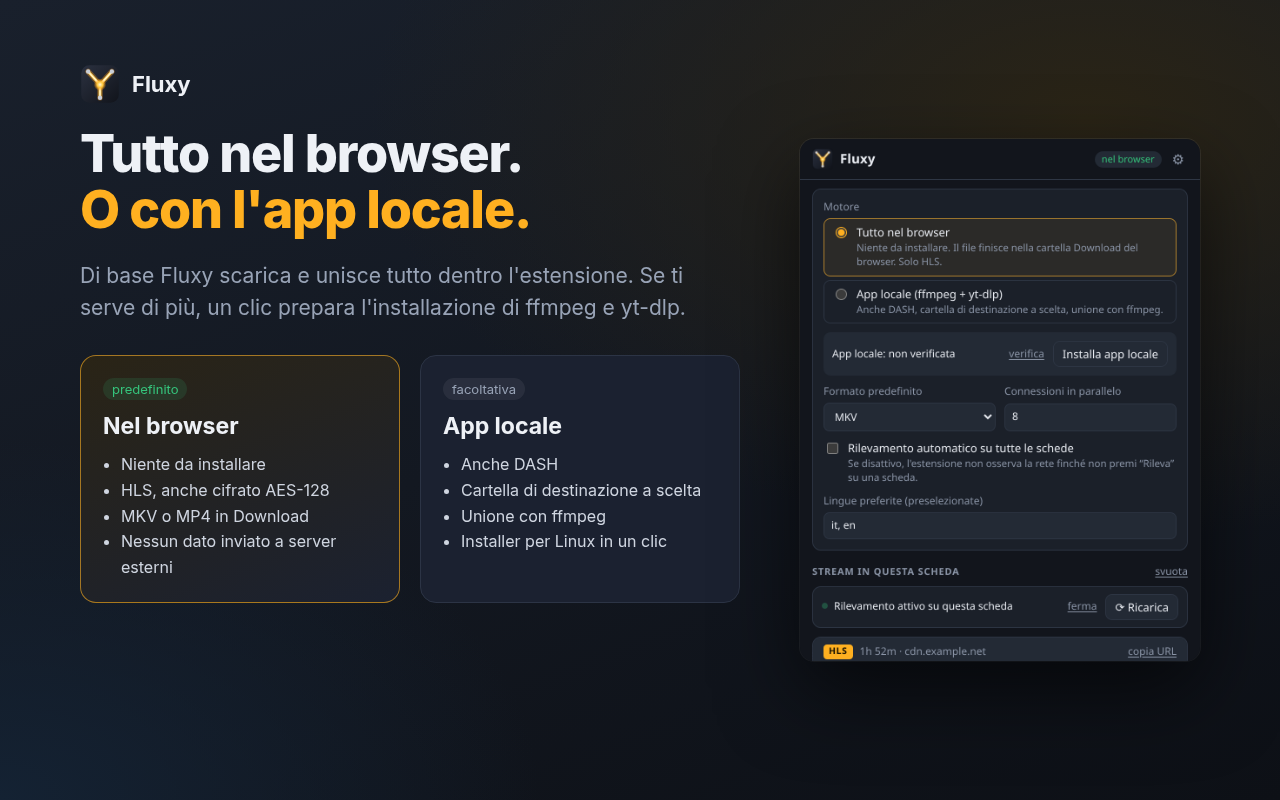
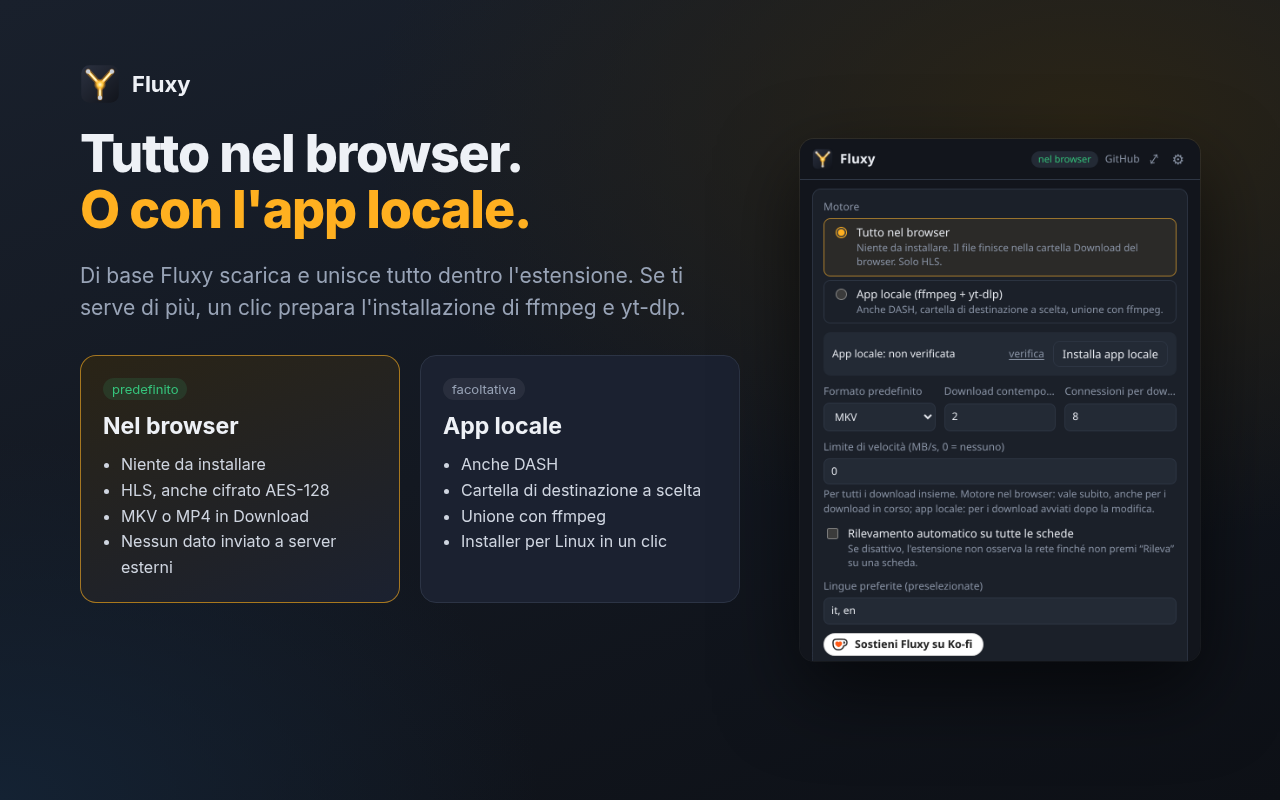
Scheda store aggiornata, immagini rifatte, header eliminati dai download completati (v0.11.1)
- Descrizioni IT/EN con le funzioni da download manager (tracce in parallelo, salto di una traccia,
  pausa/ripresa/riprova, coda, limite di velocità, .srt separati) e la riga sulla versione GitHub:
  senza nominare YouTube per Chrome Web Store/Edge, esplicita per AMO.
- Screenshot catturati di nuovo dall'estensione; il quinto ora mostra la pagina dei download.
- Privacy: quando un download è completato la cronologia non conserva più header e cookie della pagina;
  informativa aggiornata (cronologia persistente, URL pubblico).

Claude-Session: https://claude.ai/code/session_01Dts39jVRYCLJxom2Pzw7QR

diff --git a/docs/store/src/strings.js b/docs/store/src/strings.js
@@ -57,16 +57,16 @@ const STRINGS = {
   s4_h1b: ['Local app', 'App locale'],
   s4_l2: ['<li>DASH too</li><li>Any destination folder</li><li>Merging with ffmpeg</li><li>One-click Linux installer</li>',
     '<li>Anche DASH</li><li>Cartella di destinazione a scelta</li><li>Unione con ffmpeg</li><li>Installer per Linux in un clic</li>'],
-  // screenshot 5 — speed
-  s5_h1: ['Fast, <em>no quality loss</em>.', 'Veloce, <em>senza perdere qualità</em>.'],
-  s5_f1: ['<b>Parallel segments</b>, with automatic retries if the connection drops.',
-    '<b>Segmenti in parallelo</b>, con nuovi tentativi automatici se la connessione cade.'],
-  s5_f2: ['<b>Copy, not re-encode</b>: merging a film takes seconds and the file stays identical to the original.',
-    '<b>Copia, non ricodifica</b>: l\'unione di un film richiede secondi e il file resta identico all\'originale.'],
-  s5_f3: ['<b>Languages and default tracks already set</b>: the file opens ready in any player.',
-    '<b>Lingue e tracce predefinite già impostate</b>: il file si apre pronto in qualsiasi player.'],
-  s5_f4: ['<b>No tracking</b>: no account, no analytics, no Fluxy servers.',
-    '<b>Nessun tracciamento</b>: niente account, niente statistiche, nessun server di Fluxy.'],
+  // screenshot 5 — download manager (the Fluxy page)
+  s5_h1: ['A real <em>download manager</em>.', 'Un vero <em>download manager</em>.'],
+  s5_f1: ['<b>Tracks in parallel</b>: video, every audio language and the subtitles download together, on as many connections as you choose.',
+    '<b>Tracce in parallelo</b>: video, ogni lingua audio e i sottotitoli si scaricano insieme, con le connessioni che scegli tu.'],
+  s5_f2: ['<b>Skip a single track</b> while it downloads: it stops and stays out of the file, the rest carries on.',
+    '<b>Salta una singola traccia</b> mentre scarica: si ferma e resta fuori dal file, il resto continua.'],
+  s5_f3: ['<b>Pause, resume, retry</b>: nothing already downloaded is lost, and an expired link is refreshed.',
+    '<b>Pausa, ripresa e riprova</b>: quello che è già scaricato non si perde e il link scaduto viene rinnovato.'],
+  s5_f4: ['<b>Queue and speed limit</b>, rename while downloading, history kept in the Fluxy page.',
+    '<b>Coda e limite di velocità</b>, rinomina durante il download, cronologia nella pagina di Fluxy.'],
   // promo tiles
   tagline: ['Three streams, <b>one file</b>.', 'Tre flussi, <b>un file</b>.'],
   m_lead: ['Save HLS and DASH streams as one <b style="color:var(--text)">MKV or MP4</b>, with the languages and subtitles you pick. <em style="font-style:normal;color:var(--accent)">No re-encoding.</em>',

diff --git a/docs/store/src/screenshot-5-downloads.html b/docs/store/src/screenshot-5-downloads.html
@@ -1,0 +1,23 @@
+<!doctype html><html><head><meta charset="utf-8"><link rel="stylesheet" href="style.css">
+<style>
+  .wrap { display: grid; grid-template-columns: 1fr 660px; gap: 48px; padding: 56px 56px 56px 72px; height: 100%; }
+  .copy { display: flex; flex-direction: column; gap: 22px; padding-top: 12px; }
+  h1 { font-size: 46px; }
+  .facts { display: grid; gap: 15px; margin-top: 4px; }
+  .fact { display: flex; gap: 14px; align-items: flex-start; font-size: 17.5px; line-height: 1.45; color: #cfd5e0; }
+  .fact b { color: var(--text); } .fact i { flex: none; width: 32px; height: 32px; border-radius: 10px; background: #ffb02022; color: var(--accent); display: grid; place-items: center; font-style: normal; font-weight: 800; }
+  .popup { align-self: center; width: 660px; }
+</style></head><body>
+<div class="wrap">
+  <div class="copy">
+    <div class="brand"><img src="assets/icon.svg">Fluxy</div>
+    <h1 data-t="s5_h1"></h1>
+    <div class="facts">
+      <div class="fact"><i>⇉</i><div data-t="s5_f1"></div></div>
+      <div class="fact"><i>✕</i><div data-t="s5_f2"></div></div>
+      <div class="fact"><i>↻</i><div data-t="s5_f3"></div></div>
+      <div class="fact"><i>⏱</i><div data-t="s5_f4"></div></div>
+    </div>
+  </div>
+  <div class="popup shadow"><img data-img="assets/app-downloads-{lang}.png"></div>
+</div><script src="strings.js"></script></body></html>

diff --git a/extension/background.js b/extension/background.js
@@ -433,6 +433,12 @@ function mutateJobs(fn) {
   jobsLock = jobsLock.then(async () => {
     const jobs = await getJobs();
     fn(jobs);
+    // a finished download can't be retried: don't keep the page's cookies/headers in the history
+    for (const j of Object.values(jobs)) {
+      if (j.state !== 'done') continue;
+      delete j.headers;
+      if (j.spec?.headers) delete j.spec.headers;
+    }
     // keep the history bounded: drop the oldest finished entries
     const finished = Object.values(jobs).filter((j) => ['done', 'error', 'cancelled'].includes(j.state))
       .sort((a, b) => a.startedAt - b.startedAt);

diff --git a/host/fluxy_host.py b/host/fluxy_host.py
@@ -29,7 +29,7 @@ import traceback
 import urllib.parse
 import urllib.request
 
-VERSION = "0.11.0"
+VERSION = "0.11.1"
 CACHE_DIR = os.path.join(os.path.expanduser("~/.cache"), "fluxy")
 LOG_FILE = os.path.join(CACHE_DIR, "host.log")
 UA_FALLBACK = ("Mozilla/5.0 (X11; Linux x86_64) AppleWebKit/537.36 "

diff --git a/docs/store/listing.md b/docs/store/listing.md
@@ -11,12 +11,13 @@ Pacchetti da caricare (`./build.py`, oppure dalla release GitHub; il link Ko-fi 
 | Chrome Web Store, Edge Add-ons | `dist/fluxy-<ver>-chrome-store.zip` (senza `key`: l'ID lo assegna lo store; senza YouTube) |
 | AMO | `dist/fluxy-<ver>-firefox-store.xpi` (senza YouTube) |
 
-**Non menzionare il supporto YouTube della versione GitHub** in schede, screenshot o note: per il Chrome Web Store
-indicare dove ottenere una funzione vietata equivale a offrirla (rischio di rifiuto o rimozione). Nella scheda c'è
-solo il link neutro al progetto; la differenza tra le versioni è spiegata nel README.
-
-Le versioni store escludono YouTube (obbligatorio per il Chrome Web Store, prudente per AMO); la versione pubblicata
-su GitHub lo supporta tramite l'app locale.
+**YouTube e altre piattaforme**: le versioni store escludono YouTube (obbligatorio per il Chrome Web Store, prudente
+per AMO); la versione su GitHub lo supporta tramite l'app locale. Nelle schede la versione GitHub si cita così:
+- **Chrome Web Store / Edge**: senza nominare YouTube, solo "più piattaforme video con l'app locale nella versione su
+  GitHub". Le policy CWS vietano di scaricare da YouTube e i revisori trattano come violazione anche il rimando
+  esplicito a dove farlo: nominarlo (anche come "YT") rischia rifiuto o rimozione. Niente YouTube neanche in
+  screenshot e note per i revisori.
+- **AMO**: le policy Mozilla non vietano i downloader per YouTube, quindi la riga può nominarlo.
 
 **Lingue**: l'estensione è in inglese (predefinita) e italiano; nome e descrizione del manifest vengono presi da
 `_locales/`. In entrambi gli store scegliere **inglese come lingua predefinita** e aggiungere l'italiano, ognuno con
@@ -51,9 +52,18 @@ cosa tenere e li ricompone in un unico file pronto per qualsiasi player.
 • Trova anche i video della pagina che non hai ancora avviato: file MP4/WebM, link, player incorporati.
 • Scegli la qualità del video, fino alla più alta che il sito offre.
 • Scegli le tracce audio per lingua: anche più di una nello stesso file.
-• Scegli i sottotitoli per lingua, compresi quelli "forced".
+• Scegli i sottotitoli per lingua, compresi quelli "forced", oppure scaricali come file .srt separati.
 • Ottieni un MKV (consigliato) o un MP4, con lingue e tracce predefinite già impostate.
 • Nessuna ricodifica: i dati vengono copiati così come sono, senza perdita di qualità e in pochi secondi.
+
+Un vero download manager
+• Video, audio e sottotitoli si scaricano in parallelo, con il numero di connessioni che scegli.
+• Hai cambiato idea su una lingua? Salta la singola traccia mentre scarica: resta fuori dal file, il resto continua.
+• Pausa e ripresa senza perdere quanto già scaricato; "riprova" rinnova il link scaduto e riparte da dove si era
+  fermato.
+• Coda con download contemporanei a scelta, limite di velocità, rinomina durante il download.
+• Pagina di Fluxy con tutti i download, la cronologia e le impostazioni; avanzamento di ogni traccia e MB
+  scaricati.
 
 Tutto nel browser
 Download in parallelo, decifratura dei flussi AES-128 standard e unione delle tracce avvengono dentro
@@ -70,16 +80,21 @@ ricaricata per intercettare gli stream del player. Se preferisci, puoi attivare 
 
 Cosa Fluxy non fa
 • Non scarica contenuti protetti da DRM (Widevine, PlayReady, FairPlay): li riconosce e lo segnala.
-• Non funziona su YouTube.
 • Non ricodifica e non modifica i contenuti.
+• Non raccoglie dati: niente account, statistiche o server di Fluxy.
 
 Usa Fluxy solo per contenuti che hai il diritto di salvare.
 
 Open source (GPL-3.0): codice, documentazione e release su https://github.com/lorisilbagnino/fluxy
+{GH_IT}
 Realizzato con Mediabunny; l'app locale facoltativa usa FFmpeg e yt-dlp.
 
 Fluxy è gratuito. Se ti è utile, puoi offrirmi un caffè: https://ko-fi.com/lorisilbagnino
 ```
+
+Riga sulla versione GitHub (al posto di `{GH_IT}`):
+- **Chrome Web Store / Edge**: `Più piattaforme video con l'app locale: vedi la versione su GitHub.`
+- **AMO**: `Altre piattaforme video, YouTube compreso, con l'app locale: vedi la versione su GitHub.`
 
 ---
 
@@ -102,9 +117,18 @@ puts them back together into a single file that plays anywhere.
 • Also finds the page's videos you haven't started yet: MP4/WebM files, links, embedded players.
 • Pick the video quality, up to the highest the site offers.
 • Pick audio tracks by language, several in the same file if you like.
-• Pick subtitles by language, including "forced" ones.
+• Pick subtitles by language, including "forced" ones, or save them as separate .srt files.
 • Get an MKV (recommended) or an MP4, with languages and default tracks already set.
 • No re-encoding: data is copied as is, with no quality loss and in seconds.
+
+A real download manager
+• Video, audio and subtitles download in parallel, over as many connections as you choose.
+• Changed your mind about a language? Skip that single track while it downloads: it stays out of the file and the
+  rest carries on.
+• Pause and resume without losing what's already downloaded; "retry" refreshes an expired link and picks up where
+  it stopped.
+• Queue with as many concurrent downloads as you like, speed limit, rename while downloading.
+• A Fluxy page with every download, the history and the settings; progress of each track and MB downloaded.
 
 All in the browser
 Parallel downloads, decryption of standard AES-128 streams and track merging all happen inside the extension.
@@ -121,16 +145,21 @@ the player's streams can be picked up. Automatic detection can be turned on in t
 
 What Fluxy doesn't do
 • It doesn't download DRM-protected content (Widevine, PlayReady, FairPlay): it recognises it and says so.
-• It doesn't work on YouTube.
 • It doesn't re-encode or alter content.
+• It doesn't collect data: no account, no analytics, no Fluxy servers.
 
 Only use Fluxy for content you have the right to save.
 
 Open source (GPL-3.0): code, documentation and releases at https://github.com/lorisilbagnino/fluxy
+{GH_EN}
 Built with Mediabunny; the optional local app uses FFmpeg and yt-dlp.
 
 Fluxy is free. If you find it useful, you can buy me a coffee: https://ko-fi.com/lorisilbagnino
 ```
+
+Line about the GitHub version (in place of `{GH_EN}`):
+- **Chrome Web Store / Edge**: `More video platforms with the local app: see the version on GitHub.`
+- **AMO**: `More video platforms, YouTube included, with the local app: see the version on GitHub.`
 
 ---
 
@@ -165,10 +194,10 @@ Fluxy is free. If you find it useful, you can buy me a coffee: https://ko-fi.com
   server del video) ma non vengono mai trasmessi allo sviluppatore né a terzi.
 - Certificazioni: non venduti a terzi · non usati per scopi estranei alla funzione · non usati per affidabilità
   creditizia.
-- URL informativa privacy: pubblicare `docs/PRIVACY.md` (vedi sotto) e incollarne l'indirizzo.
+- URL informativa privacy: https://github.com/lorisilbagnino/fluxy/blob/main/docs/PRIVACY.md
 
-**Requisiti di policy rispettati**: niente download da YouTube (bloccato nel codice), niente aggiramento di DRM,
-nessuna raccolta dati, permessi limitati alla funzione.
+**Requisiti di policy rispettati**: niente download da YouTube (bloccato nel codice) e nessun rimando esplicito a
+YouTube nella scheda, niente aggiramento di DRM, nessuna raccolta dati, permessi limitati alla funzione.
 
 ---
 
@@ -178,7 +207,7 @@ nessuna raccolta dati, permessi limitati alla funzione.
 **Contributions URL**: `https://ko-fi.com/lorisilbagnino` (Ko-fi è tra i servizi accettati)
 **Licenza**: GNU General Public License v3.0 (GPL-3.0-or-later, con termini aggiuntivi in `ADDITIONAL-TERMS.md`:
 su AMO scegliere "GNU General Public License v3.0"). Codice sorgente: https://github.com/lorisilbagnino/fluxy
-**Informativa privacy**: il testo di `docs/PRIVACY.md`.
+**Informativa privacy**: il testo di `docs/PRIVACY.md` (AMO lo vuole incollato, non come link).
 
 **Note per i revisori** (Notes to reviewer):
 
@@ -202,8 +231,6 @@ in a player page), open the popup, press "Detect", choose tracks, press "Downloa
 
 ## Immagini
 
-| File | Formato | Uso |
-|---|---|---|
 Ogni immagine esiste in `images/en/` e `images/it/`:
 
 | File | Formato | Uso |
@@ -212,21 +239,23 @@ Ogni immagine esiste in `images/en/` e `images/it/`:
 | `screenshot-2-three-streams.png` | 1280×800 | CWS/AMO: infografica "tre flussi, un file" |
 | `screenshot-3-how-it-works.png` | 1280×800 | CWS/AMO: come funziona in 3 passi |
 | `screenshot-4-engines.png` | 1280×800 | CWS/AMO: motore nel browser o app locale |
-| `screenshot-5-progress.png` | 1280×800 | CWS/AMO: download in corso e completato |
+| `screenshot-5-downloads.png` | 1280×800 | CWS/AMO: pagina dei download (tracce in parallelo, traccia saltata, pausa) |
 | `promo-small-440x280.png` | 440×280 | CWS: piccolo riquadro promozionale (obbligatorio) |
 | `promo-marquee-1400x560.png` | 1400×560 | CWS: riquadro grande (facoltativo) |
 | `social-preview-1280x640.png` | 1280×640 | GitHub: anteprima dei link (Settings → Social preview) |
 | `icons/icon128.png` (nell'estensione) | 128×128 | Icona dello store |
 
 I sorgenti HTML sono in `docs/store/src/` (testi in `src/strings.js`); si rigenerano con `node docs/store/render.mjs`.
+Le catture del popup e della pagina (`src/assets/popup-*.png`, `app-downloads-*.png`) vengono dall'estensione vera,
+aperta con dati dimostrativi.
 
 ---
 
 ## Prima di pubblicare
 
 - [ ] Account sviluppatore: Chrome Web Store (5 $ una tantum), AMO (gratis), Edge (gratis).
-- [ ] Informativa privacy raggiungibile da un URL pubblico (il repository è privato: GitHub Pages su repo privati
-      richiede un piano a pagamento; in alternativa un gist pubblico o una pagina sul proprio sito).
+- [x] Informativa privacy raggiungibile da un URL pubblico:
+      https://github.com/lorisilbagnino/fluxy/blob/main/docs/PRIVACY.md
 - [x] Licenza del progetto: GPL-3.0-or-later + termini aggiuntivi.
 - [x] Account Ko-fi: https://ko-fi.com/lorisilbagnino (link nel popup, nelle schede e nel pulsante Sponsor di GitHub).
 - [ ] Caricare `fluxy-<ver>-chrome-store.zip` / `fluxy-<ver>-firefox-store.xpi`, testi, immagini, giustificazioni.

diff --git a/docs/PRIVACY.md b/docs/PRIVACY.md
@@ -1,6 +1,6 @@
 # Fluxy – Informativa sulla privacy
 
-*Ultimo aggiornamento: 15 novembre 2026*
+*Ultimo aggiornamento: 16 novembre 2026*
 
 **In breve: Fluxy non raccoglie, non conserva e non invia a nessuno dati personali o sulla tua navigazione.**
 
@@ -16,10 +16,13 @@
   Authorization), perché il server del video li richiede per consegnare i segmenti.
 - **Download.** Per scaricare lo stream, Fluxy invia quegli stessi header **solo ai server da cui proviene il
   video**, come farebbe il player della pagina.
-- **Archiviazione locale.** L'elenco degli stream rilevati e dei download resta nella memoria di sessione del
-  browser e viene cancellato alla chiusura. Le impostazioni restano nella memoria locale dell'estensione. I segmenti
-  scaricati vengono scritti temporaneamente nello spazio privato dell'estensione (OPFS) e cancellati appena il file
-  finale è salvato nella cartella Download.
+- **Archiviazione locale.** L'elenco degli stream rilevati resta nella memoria di sessione del browser e viene
+  cancellato alla chiusura. La cronologia dei download (nome del file, titolo e indirizzo della pagina, tracce scelte,
+  avanzamento) e le impostazioni restano nella memoria locale dell'estensione, finché non le cancelli ("Cancella
+  cronologia" o "rimuovi"). Per i download in pausa, interrotti o falliti la cronologia conserva anche indirizzi e
+  header dello stream, così da poterli riprendere; quando un download è completato gli header (cookie compresi) vengono
+  eliminati. I segmenti scaricati vengono scritti temporaneamente nello spazio privato dell'estensione (OPFS):
+  vengono cancellati appena il file finale è salvato, oppure quando annulli o rimuovi un download incompleto.
 - **App locale (facoltativa).** Se la installi, l'estensione le passa gli stessi dati (indirizzi e header dello
   stream) per eseguire il download sul tuo computer. Il programma scrive un registro in `~/.cache/fluxy/host.log`
   con cookie e Authorization oscurati.
@@ -40,7 +43,7 @@ Per domande: apri una segnalazione nel repository del progetto.
 
 # Fluxy – Privacy policy
 
-*Last updated: 15 November 2026*
+*Last updated: 16 November 2026*
 
 **In short: Fluxy does not collect, store or send anyone personal data or data about your browsing.**
 
@@ -53,9 +56,13 @@ Per domande: apri una segnalazione nel repository del progetto.
   address it keeps the headers the player used (Referer, Origin, Cookie, Authorization), because the video server
   requires them to deliver the segments.
 - **Downloads.** Those headers are sent **only to the servers the video comes from**, as the page's player would.
-- **Local storage.** Detected streams and downloads live in the browser's session storage and are cleared when the
-  browser closes; settings stay in the extension's local storage. Downloaded segments are written temporarily to the
-  extension's private storage (OPFS) and deleted as soon as the final file is saved to your Downloads folder.
+- **Local storage.** Detected streams live in the browser's session storage and are cleared when the browser
+  closes. The download history (file name, page title and address, chosen tracks, progress) and the settings stay in
+  the extension's local storage until you clear them ("Clear history" or "remove"). For paused, interrupted or failed
+  downloads the history also keeps the stream addresses and headers, so they can be resumed; once a download has
+  completed, the headers (cookies included) are deleted. Downloaded segments are written temporarily to the
+  extension's private storage (OPFS) and deleted as soon as the final file is saved, or when you cancel or remove an
+  unfinished download.
 - **Local app (optional).** If you install it, the extension passes it the same data (stream addresses and headers)
   to run the download on your computer. It keeps a log in `~/.cache/fluxy/host.log` with cookies and Authorization
   redacted.
